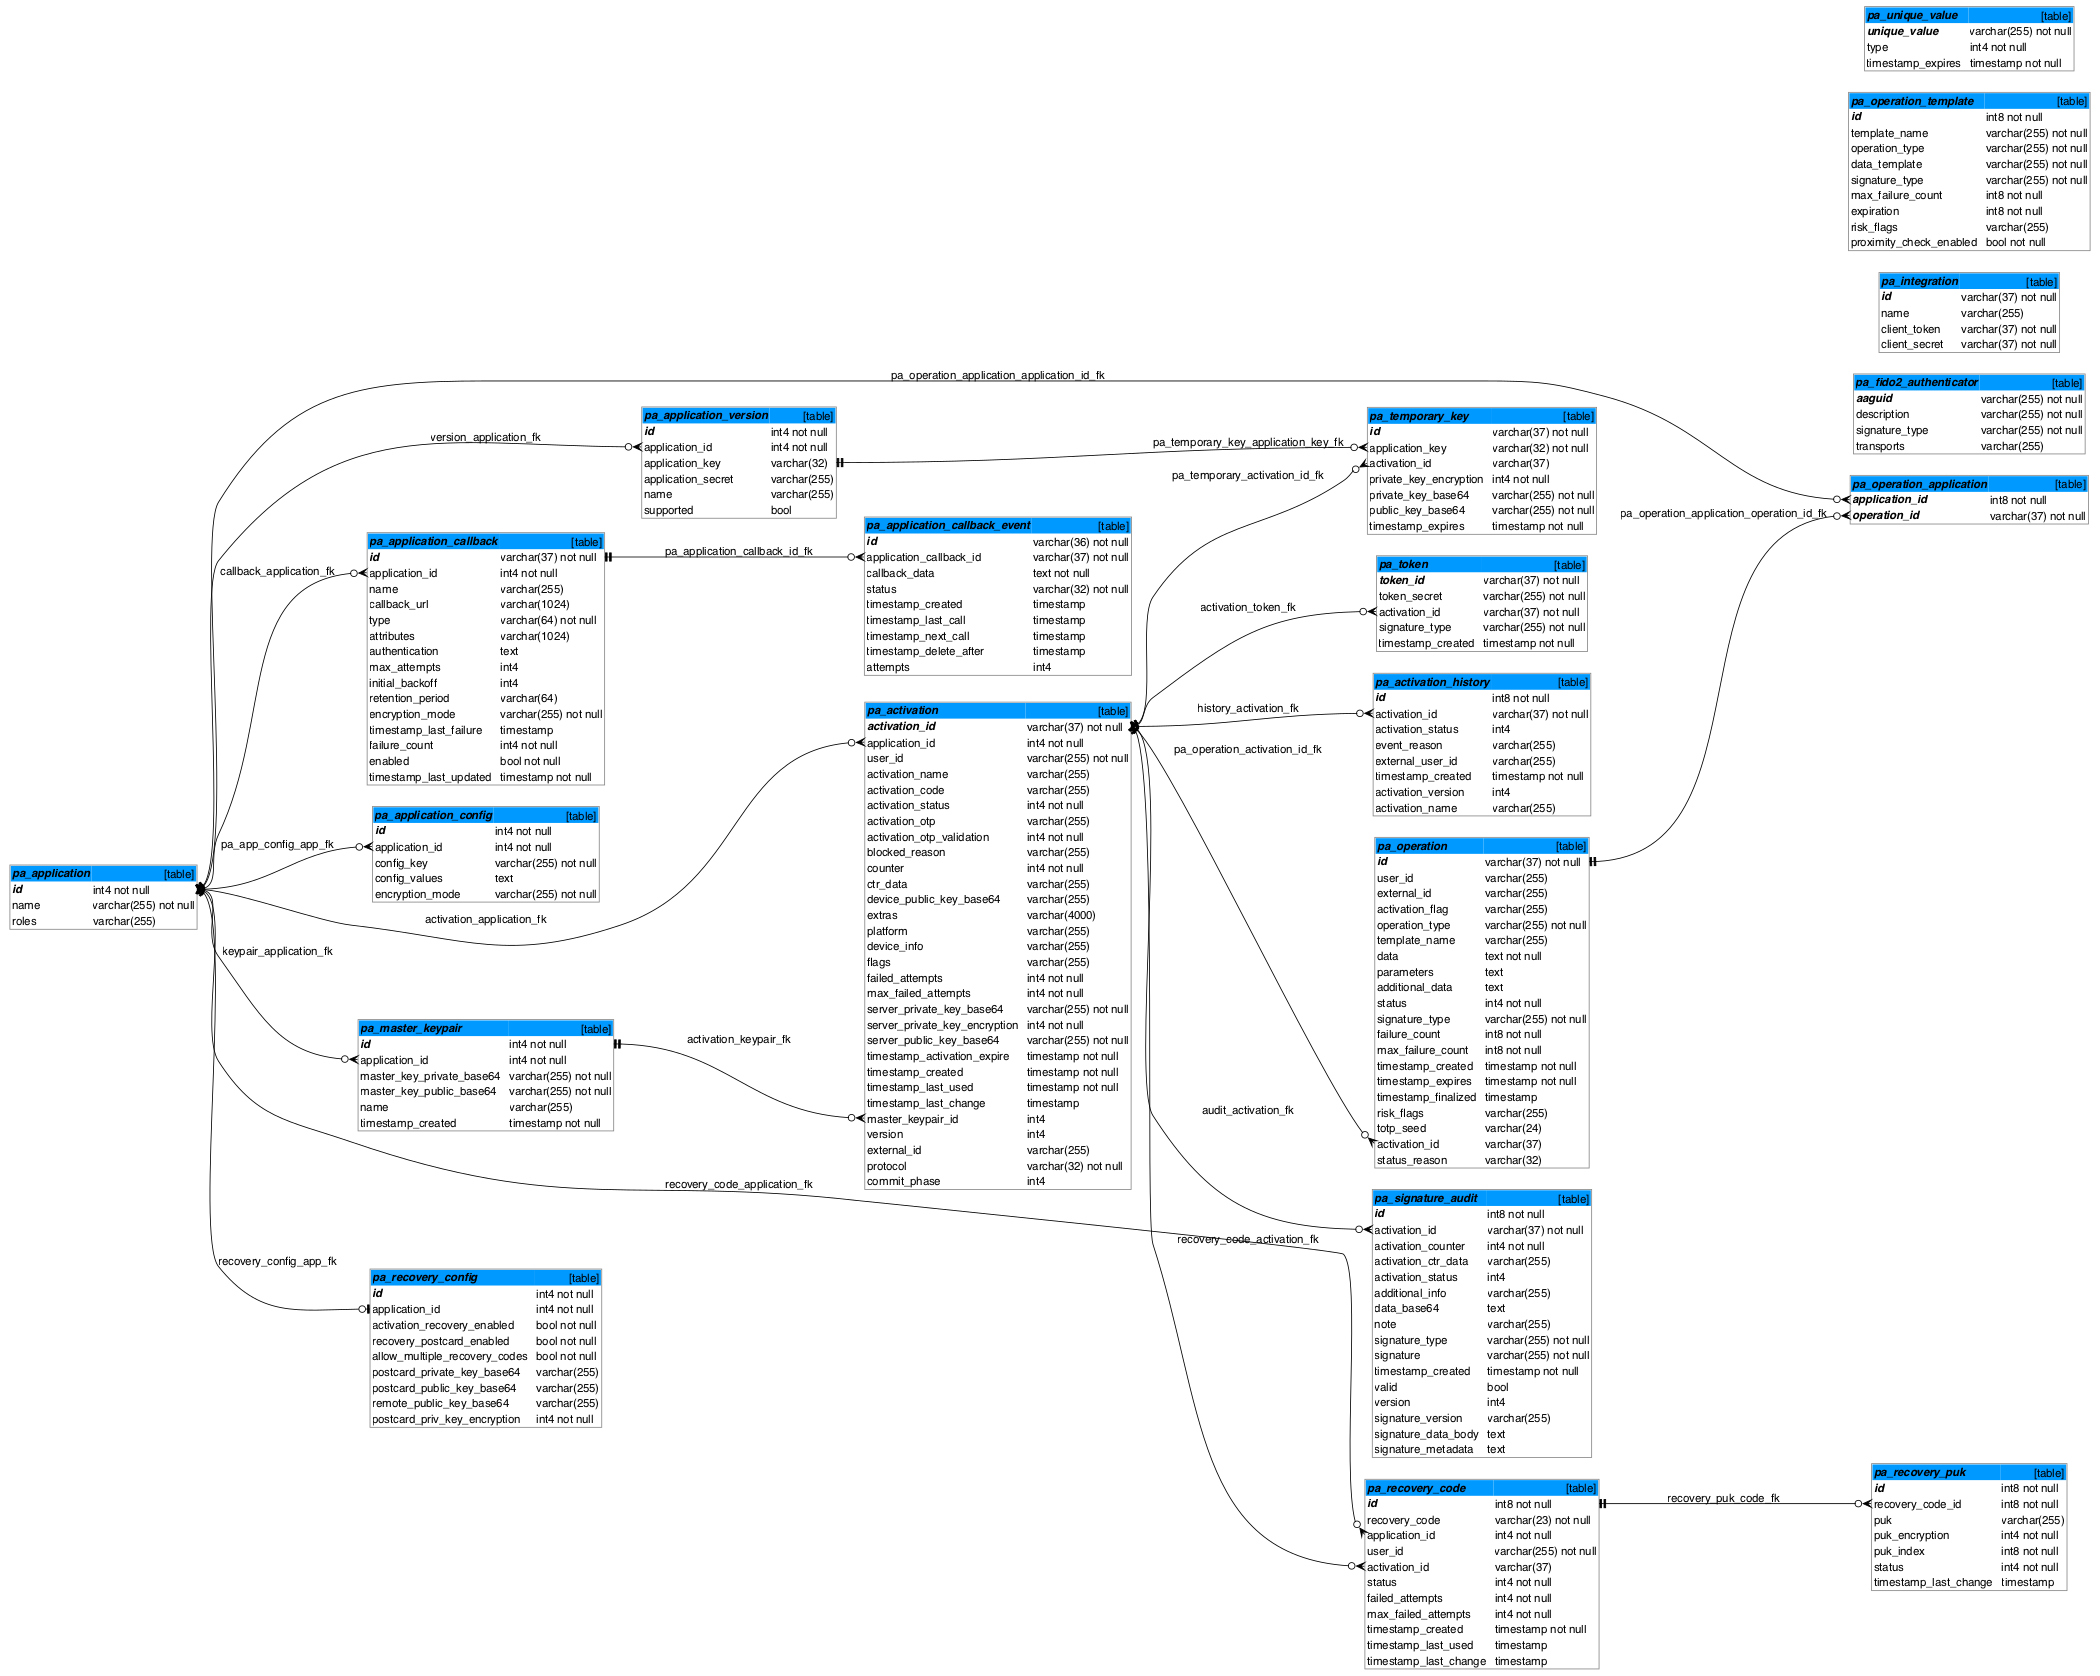
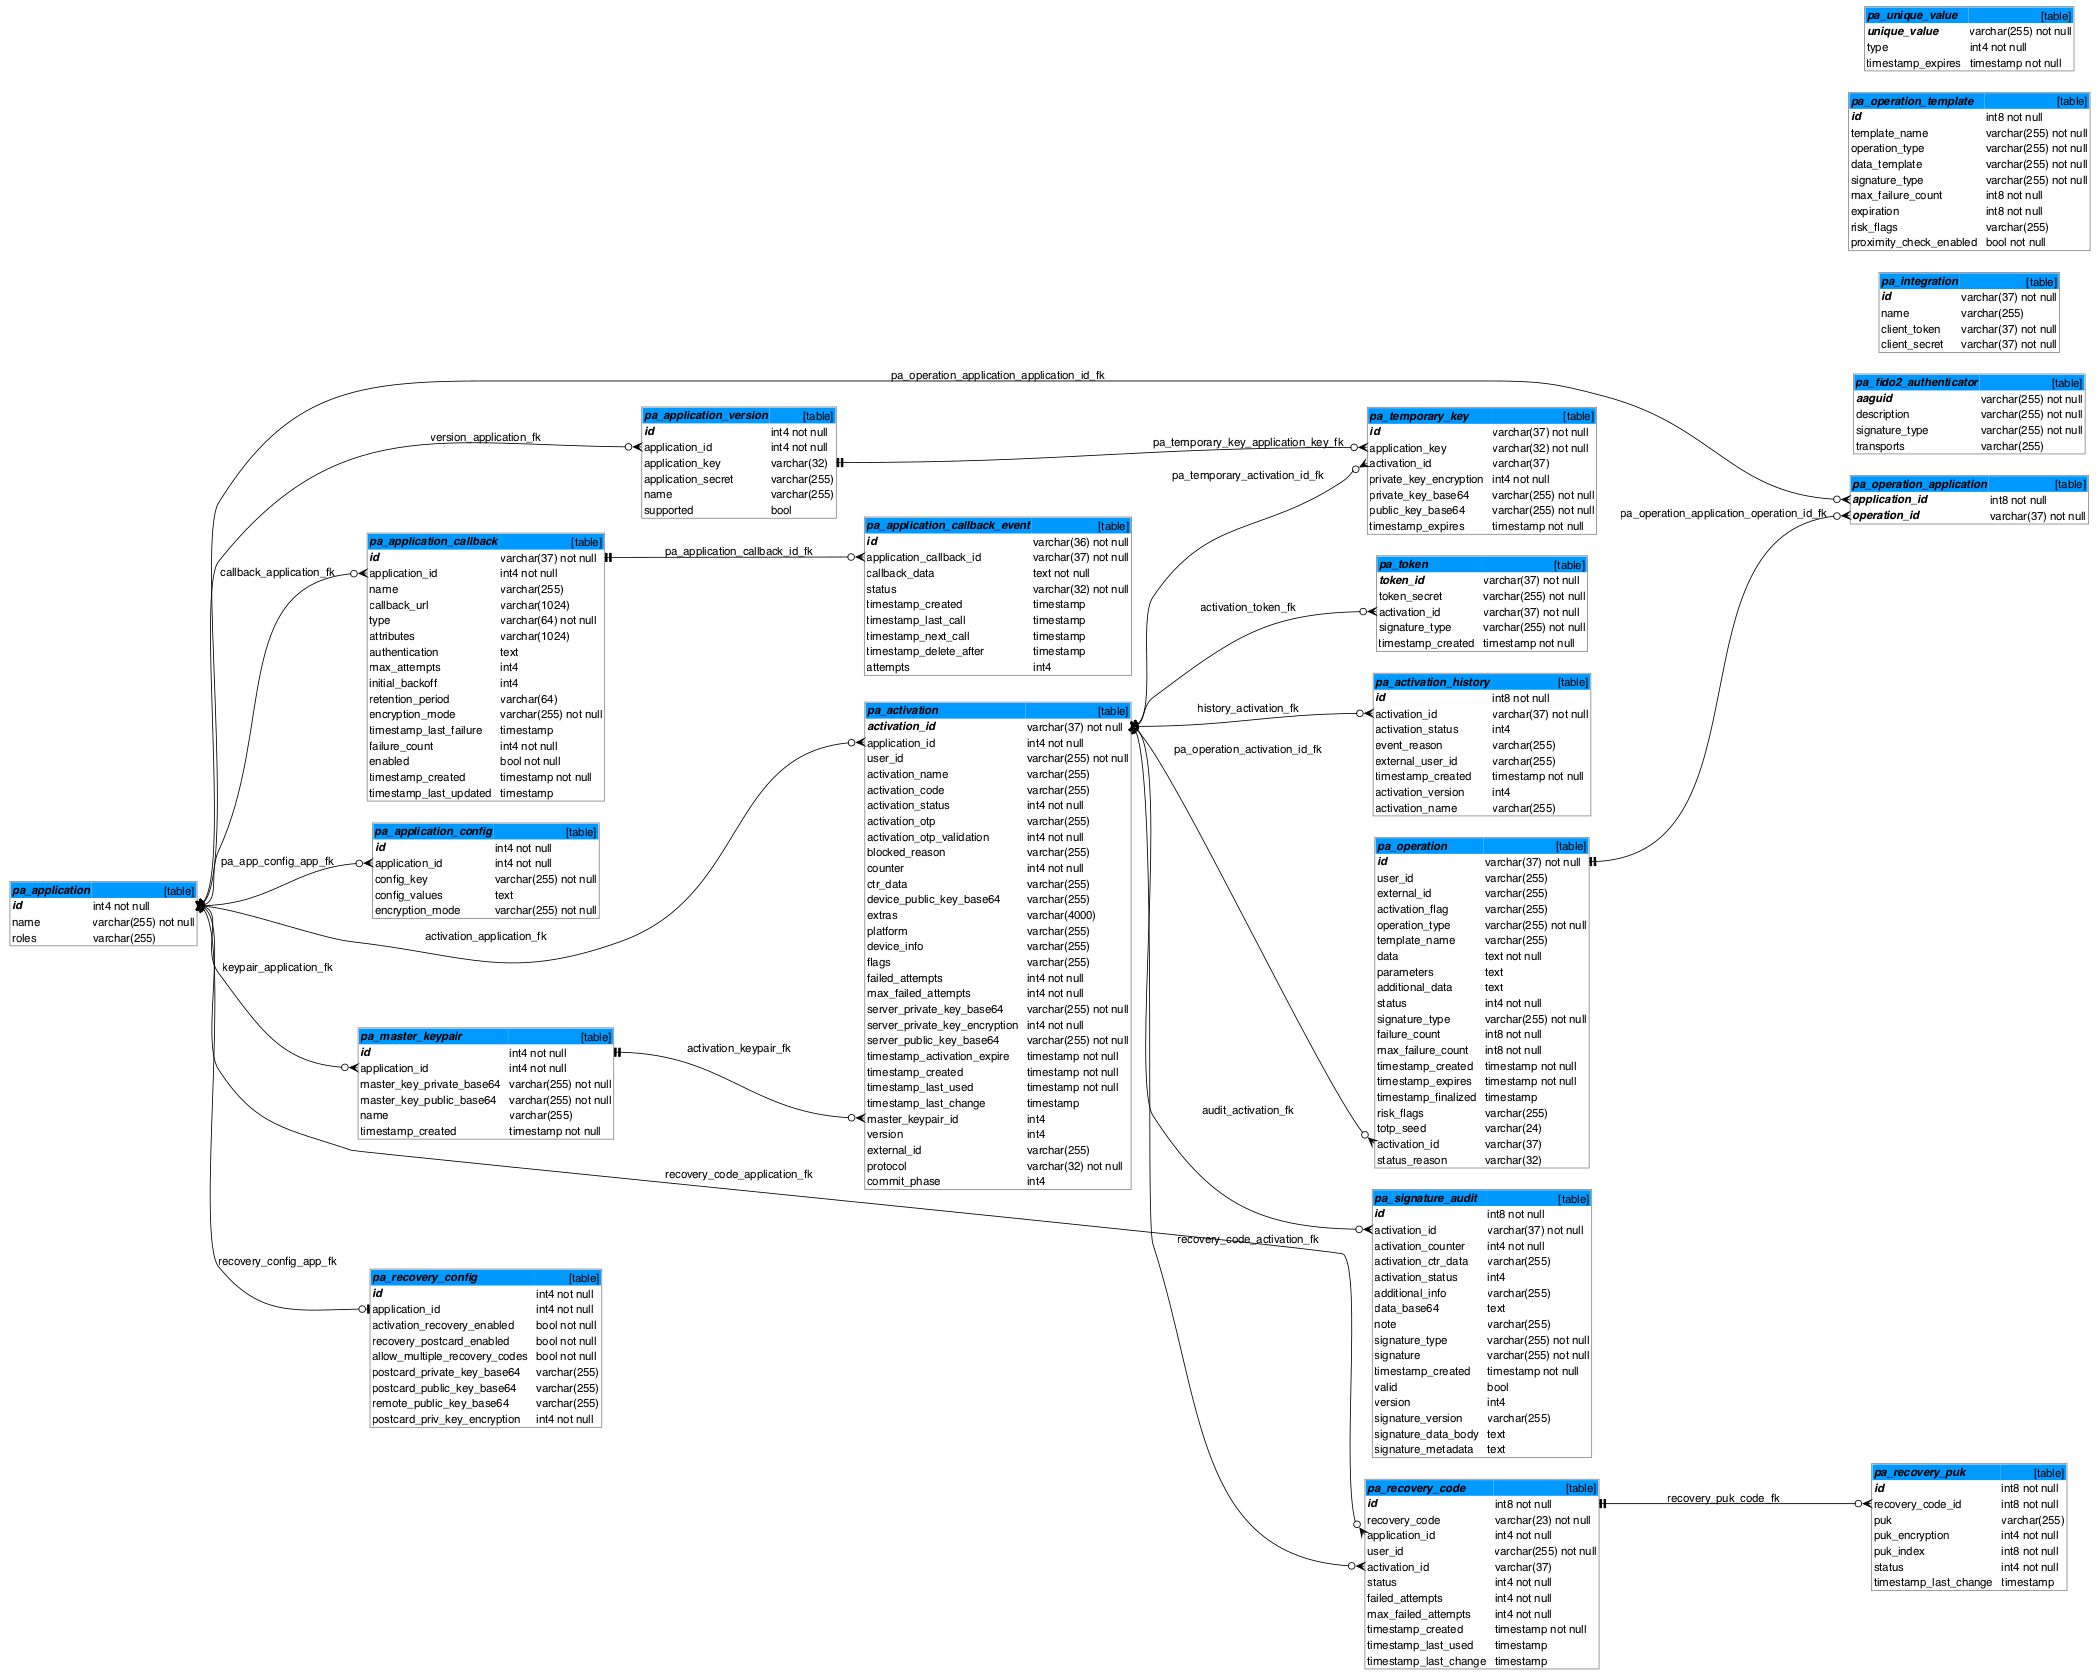
Add timestamp_created

Changed region(s): [[0.0, 0.4344, 0.3714, 0.6826], [0.3095, 0.6826, 0.3714, 0.7136], [0.2476, 0.3103, 0.2786, 0.3413]]

diff --git a/powerauth-java-server/src/main/java/io/getlime/security/powerauth/app/server/database/model/entity/CallbackUrlEntity.java b/powerauth-java-server/src/main/java/io/getlime/security/powerauth/app/server/database/model/entity/CallbackUrlEntity.java
@@ -140,10 +140,16 @@ public class CallbackUrlEntity implements Serializable {
     private boolean enabled = true;
 
     /**
+     * Timestamp of the creation.
+     */
+    @Column(name = "timestamp_created", nullable = false, columnDefinition = "TIMESTAMP DEFAULT CURRENT_TIMESTAMP")
+    private LocalDateTime timestampCreated = LocalDateTime.now();
+
+    /**
      * Timestamp of the last update via Callback Management API.
      */
-    @Column(name = "timestamp_last_updated", nullable = false, columnDefinition = "TIMESTAMP DEFAULT CURRENT_TIMESTAMP")
-    private LocalDateTime timestampLastUpdated = LocalDateTime.now();
+    @Column(name = "timestamp_last_updated")
+    private LocalDateTime timestampLastUpdated;
 
     @Override
     public boolean equals(Object o) {

diff --git a/powerauth-java-server/src/main/java/io/getlime/security/powerauth/app/server/service/callbacks/CallbackUrlRestClientCacheLoader.java b/powerauth-java-server/src/main/java/io/getlime/security/powerauth/app/server/service/callbacks/CallbackUrlRestClientCacheLoader.java
@@ -83,7 +83,7 @@ public class CallbackUrlRestClientCacheLoader implements CacheLoader<String, Cac
         }
 
         final LocalDateTime lastEntityUpdate = optionalCallbackUrlEntity.get().getTimestampLastUpdated();
-        if (lastEntityUpdate.isAfter(cachedRestClient.timestampCreated())) {
+        if (lastEntityUpdate != null && lastEntityUpdate.isAfter(cachedRestClient.timestampCreated())) {
             final RestClient restClient = initializeRestClient(optionalCallbackUrlEntity.get());
             return new CachedRestClient(restClient, LocalDateTime.now());
         }

diff --git a/docs/Database-Structure.md b/docs/Database-Structure.md
@@ -186,8 +186,9 @@ Stores callback URLs - per-application endpoints that are notified whenever an a
 | initial_backoff | VARCHAR(64) | - | Initial backoff period before the next send attempt, stored as a ISO 8601 string. |
 | retention_period | VARCHAR(64) | - | Minimal duration for which is a completed callback event persisted, stored as a ISO 8601 string. |
 | timestamp_last_failure | DATETIME | - | The timestamp of the most recent failed callback event associated with this configuration. |
-| failure_count | INTEGER | - | The number of consecutive failed callback events associated with this configuration. |
+| failure_count | INTEGER | DEFAULT 0 NOT NULL | The number of consecutive failed callback events associated with this configuration. |
 | enabled | BOOLEAN | - | Indicator specifying whether the Callback URL should be used. |
+| timestamp_created | DATETIME | DEFAULT NOW() NOT NULL | Timestamp when the record was created. |
 | timestamp_last_updated | DATETIME | - | Timestamp of the last update of the record via the Callback Management API. |
 <!-- end -->
 

diff --git a/docs/PowerAuth-Server-1.9.0.md b/docs/PowerAuth-Server-1.9.0.md
@@ -70,11 +70,12 @@ to `true` (enabled) by default. A Callback URL remains enabled until a delete re
 Management API, at which point the `enabled` column is set to `false` (disabled). Disabled Callback URLs will be
 excluded from all subsequent queries and operations.
 
-### Add Column of Last Callback Configuration Update
+### Callback URL Creation and Last Update Timestamp
 
-A new column `timestamp_last_updated` has been added to the `pa_application_callback` table to store the timestamp of the
-last record update via the Callback Management API. This addition supports the caching mechanism for REST clients used
-to callback posting.
+Following columns has been added to the `pa_application_callback` table to improve caching mechanism of REST clients
+used for callback posting:
+- `timestamp_created` to store the timestamp of the record creation, and
+- `timestamp_last_updated` to store the timestamp of the last record update via the Callback Management API.
 
 ## REST API Changes
 
